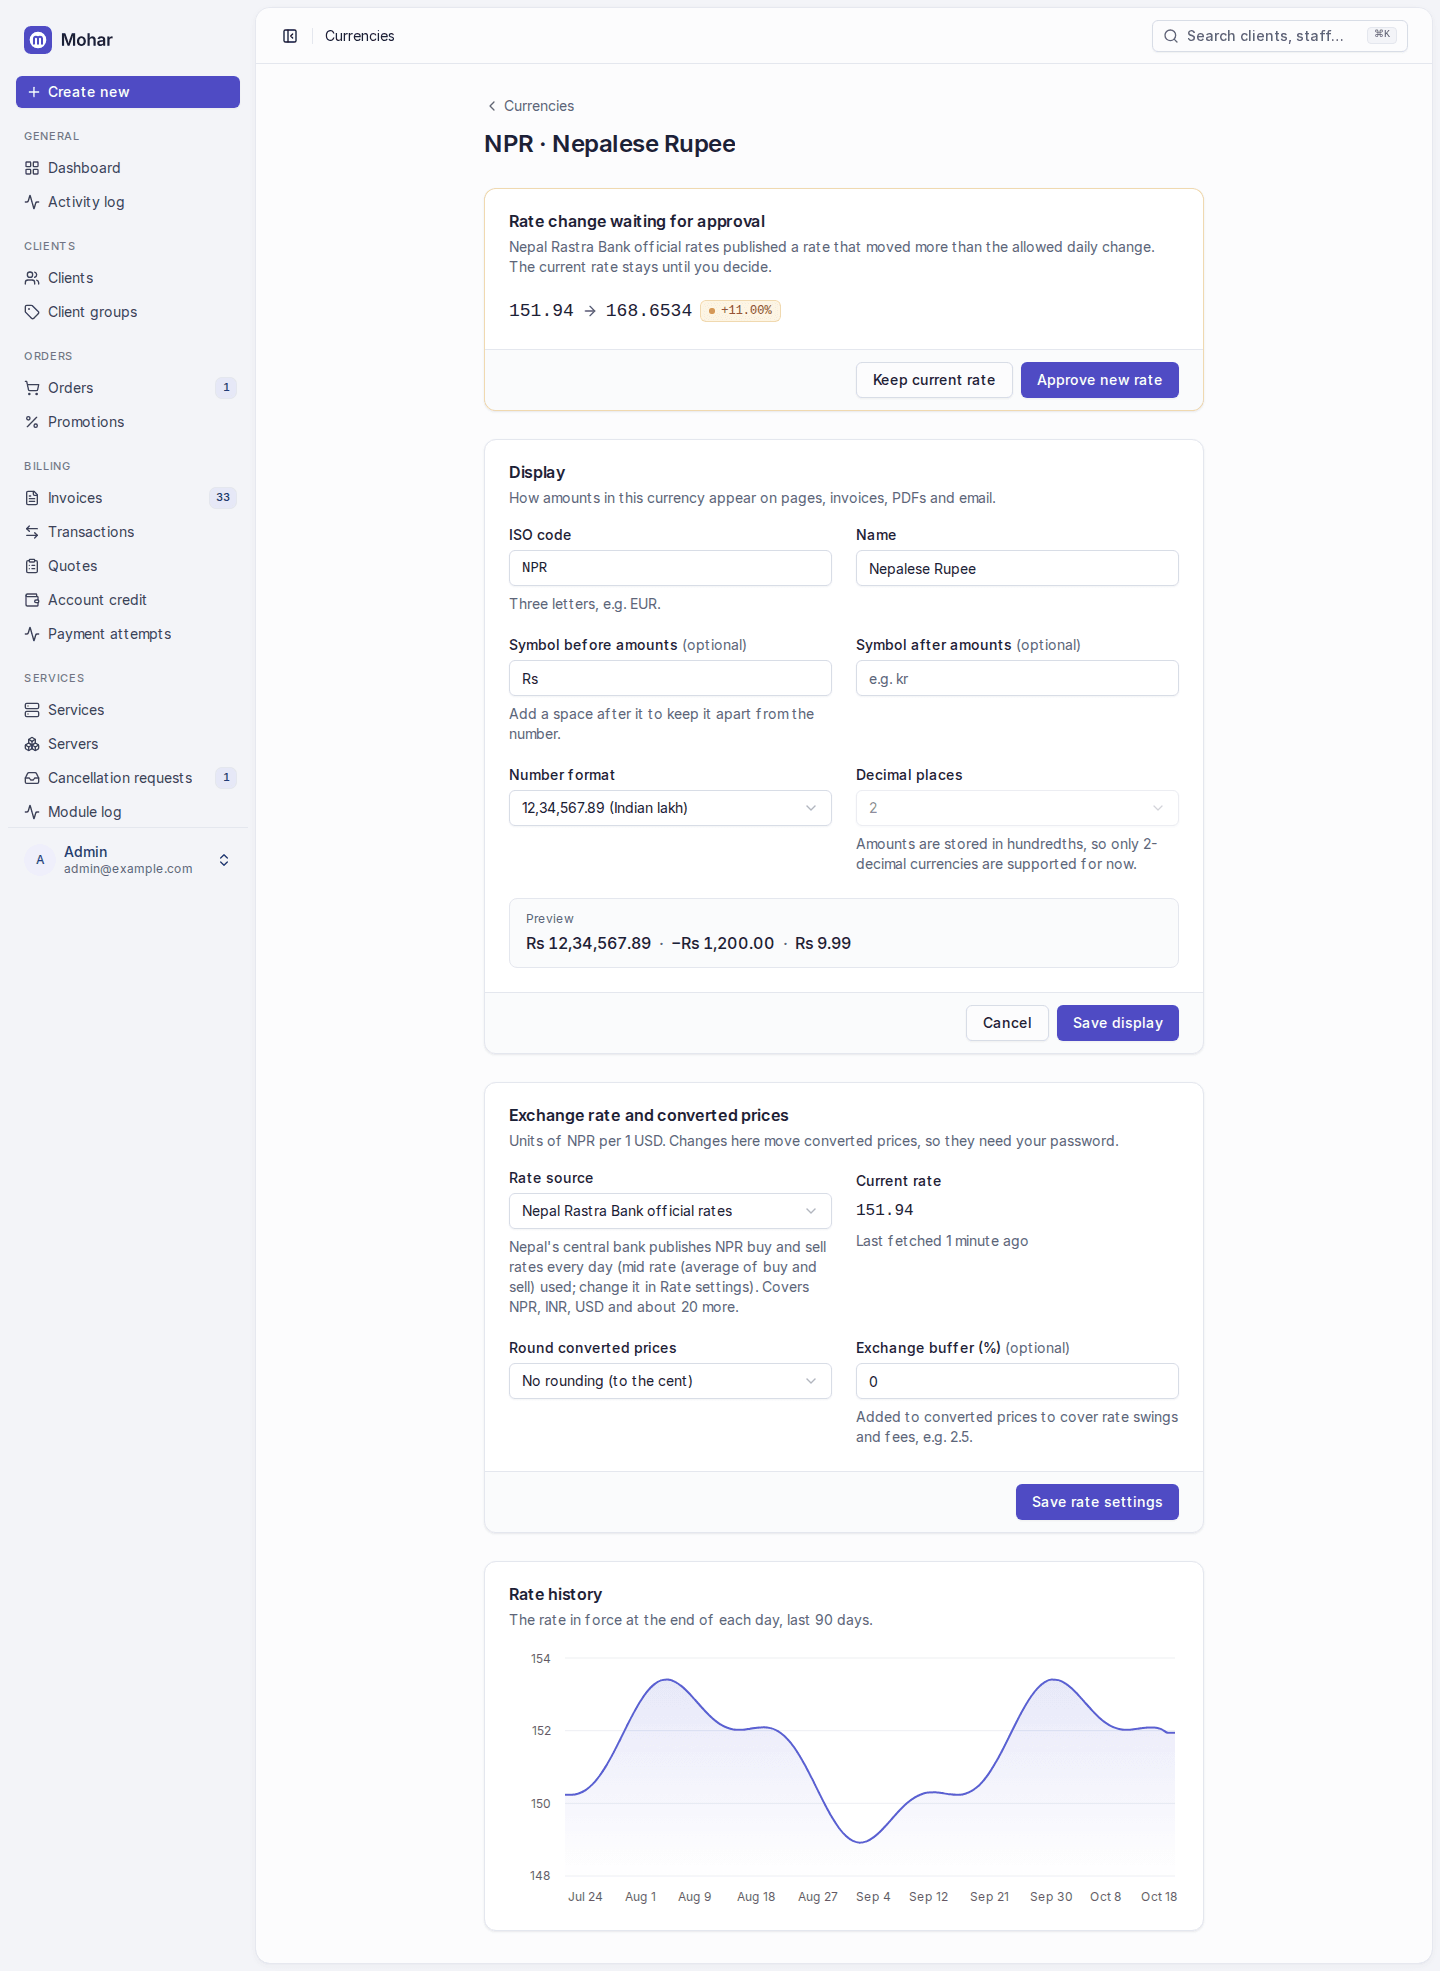
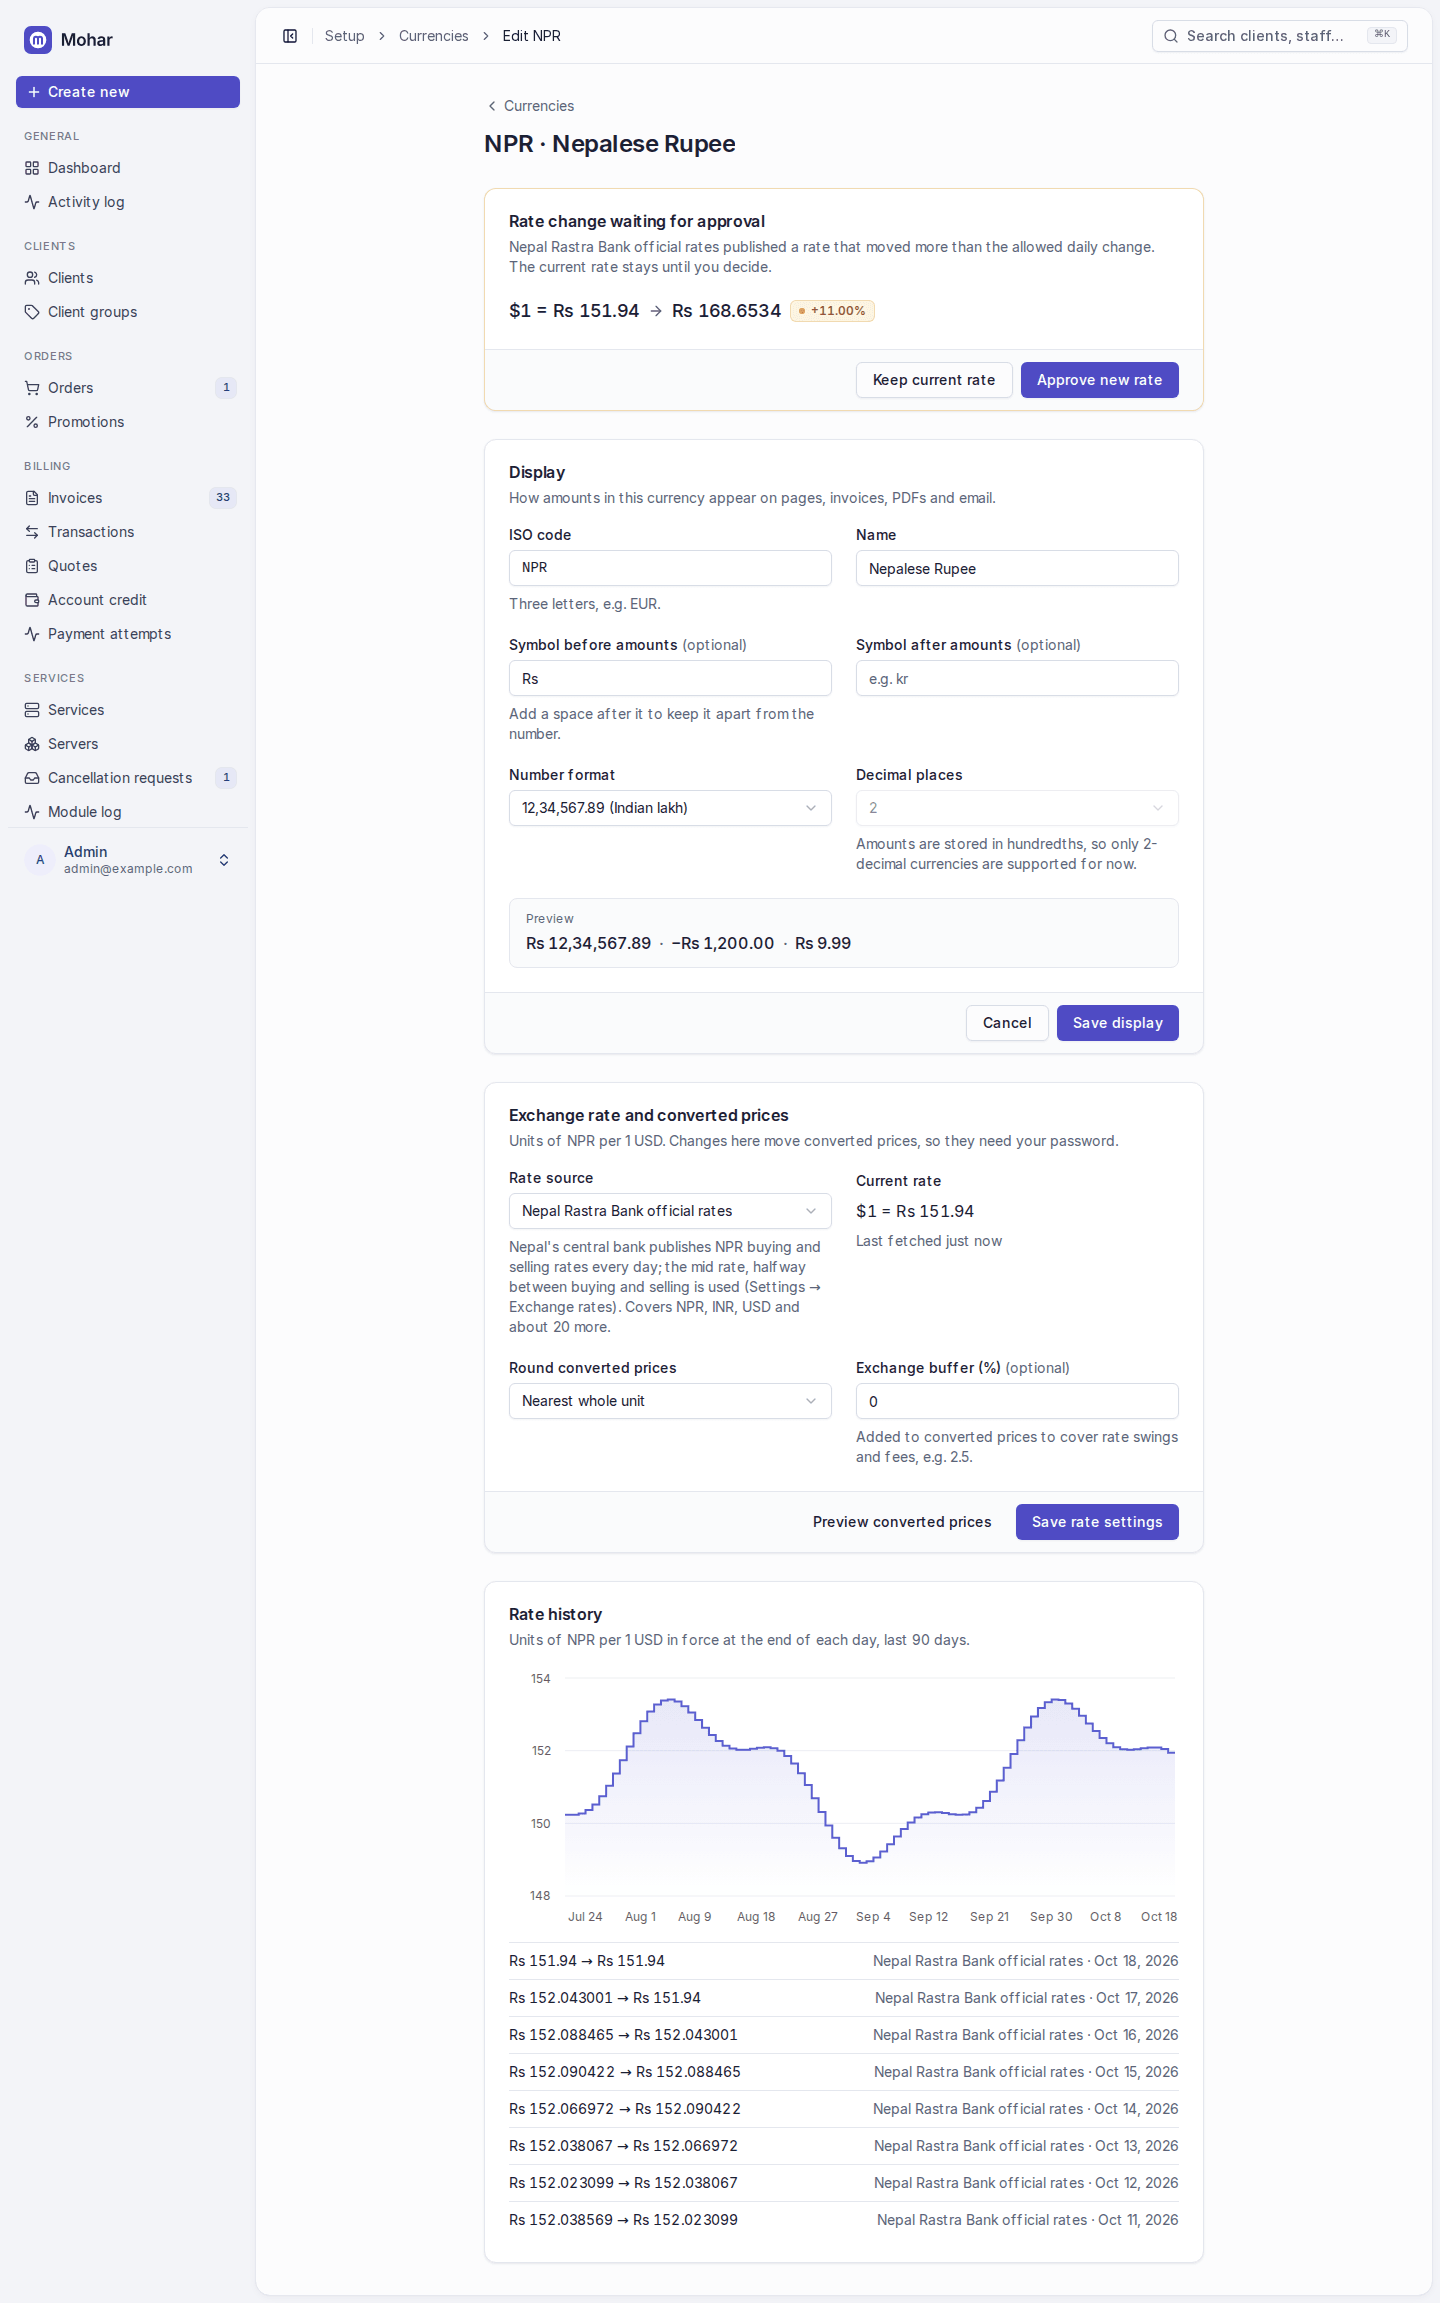
docs(currencies): screenshots of the fixed states (optimised); demo history without a duplicate last day

diff --git a/billing/app/Modules/Platform/Database/Seeders/PlatformSeeder.php b/billing/app/Modules/Platform/Database/Seeders/PlatformSeeder.php
@@ -121,7 +121,7 @@ class PlatformSeeder extends DemoSeeder
             $source = $sources[$currency->code] ?? 'manual';
             $current = (float) $currency->exchange_rate;
 
-            foreach (range(89, 1) as $daysAgo) {
+            foreach (range(89, 2) as $daysAgo) {
                 $drift = 0.012 * sin($daysAgo / 9) + 0.004 * cos($daysAgo / 3);
                 ExchangeRateHistory::query()->create([
                     'currency' => $currency->code,
